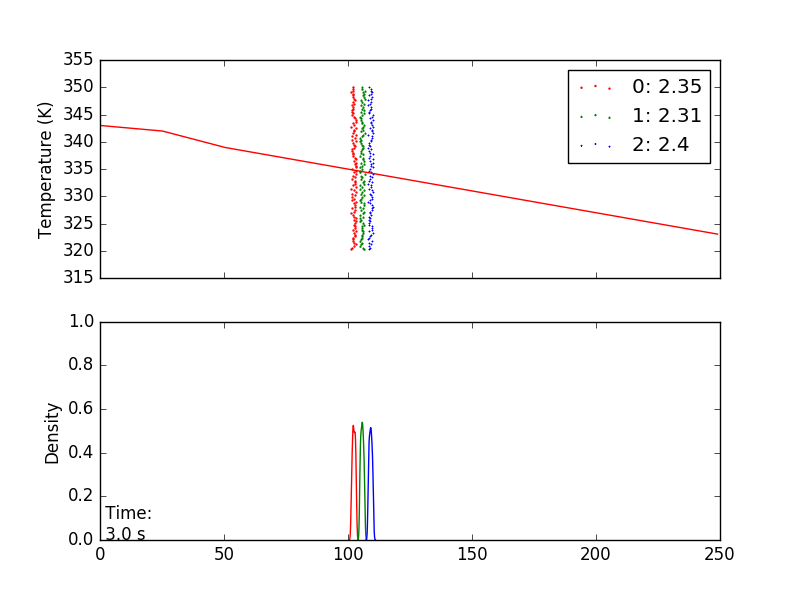
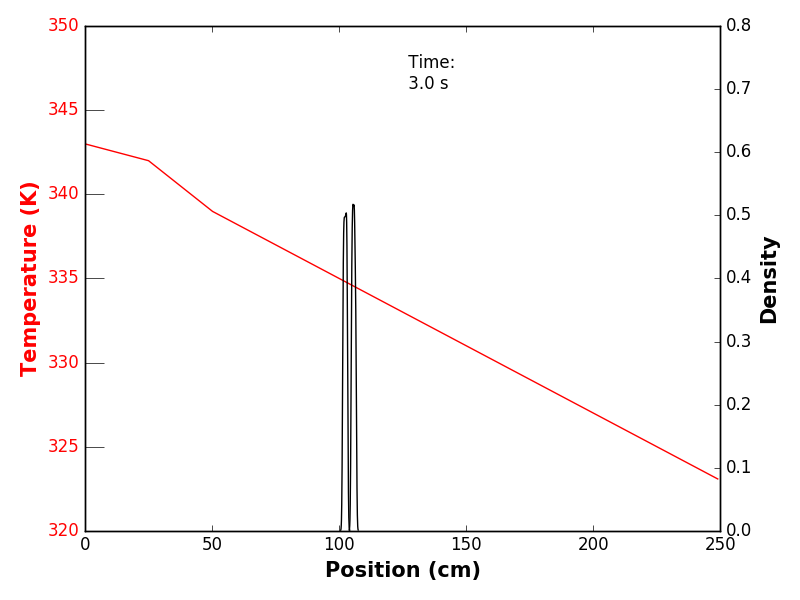
presentation ready?

diff --git a/Code/python/ExpSerpentine/newCode/ExpSerpentine_RealGradient5.py b/Code/python/ExpSerpentine/newCode/ExpSerpentine_RealGradient5.py
@@ -1,0 +1,156 @@
+import numpy as np
+import math
+import matplotlib.pyplot as plt
+import seaborn as sns
+import Parameters_ExpSerpentine as p
+import interpolateTemperature2 as interpT
+
+########################
+###   NEW EQUATION:  This is a step by step program to generate a random walk model
+###     for a varietly of moving thermal gradient profiles.
+###		This code was UPDATED in Riva with Samuel in May 2016
+####################
+TemperatureGradients = np.loadtxt(p.gradientFileName,delimiter = ',')
+colPosition = np.loadtxt(p.positionFileName,delimiter = ',') * p.posUnits
+timeData = np.loadtxt(p.timeFileName,delimiter = ',')
+GData = interpT.GradientData(colPosition,timeData,TemperatureGradients)
+colLength = colPosition[len(colPosition)-1] - colPosition[0]  # Column length [cm]
+
+#C = -7.22173 - 0.47406*p.X                # Formula for calculating C where X is the number of carbons.  Includes phase ratio
+C = -9.7309 - 0.1552*p.X             #Formula using hard coded C values
+#h = (2284.0 + 819*p.X) * 4.18442979       #  Calculation of enthalpy (Joules)
+h = (7659.66012301 + 76.4301505179*p.X) * 4.18442979       #  Calculation of enthalpy (Joules) using hard code values to calc
+
+p_i = p.p_i*6894.757          # This converts pressure from psi units to Pascals
+p_o = p.p_o*6894.757          # This converts pressure from psi units to Pascals
+p_i = p_i + p_o             #This is the true inlet pressure.
+
+Temp2PowVec = np.arange(0,1000+1/p.powerAce,1/p.powerAce)**1.646        #address the temperature /100, get the temp raised to the power
+#################
+#	The vector 'Temp2Pow' is sequence of temperatures raised to the 1.646 power
+#		to adjust for the viscosity of helium.
+#################
+startTime = int(timeData[0] / p.delta_t)
+runTime = int( timeData[len(timeData)-1] / p.delta_t)  #Number of potential steps to get compounds out of column.
+pauseCount = int(1/p.delta_t) #number of frames to skip in plotting results.  The 'big.matrix'
+                            # takes a snapshot at every 'pause.count' time for illustrating the
+                            # progress of the molecules.
+##### Start Standard Execution
+x = np.zeros((p.j,p.nMol))
+                                    # This matrix keeps track of x-axis location of each
+                                    # molecule of each analyte. Initially each is at point
+                                    # '0' as indicated here.  The y-axis location is simply the
+                                    # scaled value of the molecule's index number in the matrix x.
+detector = np.zeros((p.j,p.nMol))
+moleculeExitTime = np.zeros((p.j,p.nMol))
+
+for i in range(0,p.j):
+  x[i,] = np.random.choice(p.nMol, p.nMol, replace=False)*1.0*p.injectionWidth/p.nMol
+# The above loop returns an order from 1 to n.mol for each molecule.  Since it is divided
+# by n.mol, in essence we get each molecule uniquely with a value between 0 and 1.
+# Multiplying by injection.width gives a plug that has the n.mol molecules uniformly distributed
+# from 0 cm to injection.width cm at the beginning of the column.
+#   Remember, x[i,] is the vector of locations in x-axis of i-th analyte.  This location is used
+#	at each step for each molecule to determine temperature and velocity.
+#	This is also used to plot location of the molecules.  The y-axis values for plot are determined
+#	from the matrix column index.  (Rows indicate analyte and column indicate individual molecules.)
+currentTime = timeData[0]
+plot_res = np.zeros((p.j-1,0))
+#added_dc#############################################################
+vel_x = np.zeros((p.j,0))
+pos_x = np.zeros((p.j,0))
+std = np.zeros((p.j,0))
+time = np.array([])
+Tmax = np.amax(TemperatureGradients)
+Tmin = np.amin(TemperatureGradients)
+Tdelta = Tmax-Tmin
+
+for n in range(startTime,runTime+1):
+#for n in range(0,2):
+    currentTime = round(n*p.delta_t,3)
+    TempPlus = GData.getTemperatures(n*p.delta_t,p.tempGranularity)
+    temp = abs(x*p.tempGranularity+1)
+    temp[temp >= len(TempPlus)] = len(TempPlus) - 1
+    T_all = TempPlus[temp.astype(int)].flatten()
+    C_all = C
+    tmp_C_all = np.repeat([C_all],len(T_all)/len(C_all),axis=0).flatten('F')
+    tmp_h = np.repeat([h],len(T_all)/len(h),axis = 0).flatten('F')
+    k_all = np.exp(tmp_h/(p.R*T_all)+tmp_C_all)
+       # Here I adjust the diffusion calculation according to the position of each molecule and the temperature
+       #   at that location, taking adjusting the velocity resulting from the different pressure and viscosity values.  (HDT)
+       # 	To do this there are several steps.
+       #	First step is to determine a numerical value for the integral of temperature times viscosity.
+    TSumPow = np.cumsum(Temp2PowVec[(TempPlus*p.powerAce).astype(int)-1]) / p.tempGranularity
+       # integral of Temp^1.646
+         # Note baseline viscosity cancels out.
+         # T.sum.pow[length(T.sum.pow)]
+         # is sum or integral from 0 to end.
+    totInt = TSumPow[int(colLength*p.tempGranularity)-1]  #This is the integral from 0 to L of T^1.646.
+    HeFactor = 0.000018662/(273.15**.646)  #Mult factor viscosity of He solvent.  This is delta.not in notes.
+    CStar = (p_i**2-p_o**2)/(2*HeFactor*TSumPow[int(colLength*p.tempGranularity)-1])
+         ## C.star is =to (pi^2-po^2)/(2*integral over L of T^1.646)
+         #	I am doing the integral as simply the sum of the histogram pieces.  I could
+         #	improve this step by using Simpson's rule or the Newton binomial trick if the
+         #	Temperature can be modeled as a simple function of two variates. (HDT)
+    velocity_x = ( (p_i**2-p_o**2)*TempPlus[temp.astype(int)] * (p.diameter/2)**2 / ((16*HeFactor*totInt )*np.sqrt(abs(p_i**2-(p_i**2-p_o**2)*TSumPow[temp.astype(int)]/totInt ))) )
+    p_x = np.sqrt(abs((p_i**2-(p_i**2-p_o**2)*TSumPow[temp.astype(int)]/totInt)) ).flatten()
+       #This is the pressure at x
+    TempPrssRat = (T_all**1.75)/p_x
+    Dt = 2*(( TempPrssRat*p.gamma1 + ((1+6*k_all+11*k_all**2)/((1+k_all)**2))*velocity_x.flatten()**2*p.gamma2/(TempPrssRat) + p.gamma3*velocity_x.flatten()**2*k_all/(1+k_all) )/(1+k_all))
+    sigmaDelta = np.sqrt(abs(Dt*p.delta_t))
+    x = np.reshape((x.flatten() + ( velocity_x.flatten()*p.delta_t/(1 + k_all) + np.random.normal(0,sigmaDelta,p.j*p.nMol))),np.shape(x))
+    prevDetector = np.copy(detector)
+    detector[np.where(x > colLength)] = 1
+    moleculeExitTime[np.where(detector != prevDetector)] = currentTime
+    if n % pauseCount == 0:
+        if np.min(x) > colLength:
+            break
+        print(currentTime)
+        time = np.append(time,currentTime)
+        vel_x = np.append(vel_x,np.array([np.mean(velocity_x,axis = 1)]).T,axis=1)
+        currentMeanPos = np.array([np.mean(x,axis = 1)]).T
+        pos_x = np.append(pos_x,currentMeanPos,axis=1)
+        std = np.append(std,np.array([np.std(x,axis=1,ddof=1)]).T,axis=1)
+        f, ax1 = plt.subplots()
+
+        plt.ylim(Tmin,Tmax)
+        plt.xlabel('Position (cm)',weight='heavy',size=15)
+        ax1.yaxis.set_label_position("left")
+        ax1.set_ylabel("Temperature (K)",color='r',weight='heavy',size=15)
+        ax1.tick_params(axis='y', labelcolor='r',size=14)
+        tmp = np.array([np.std(x,axis=1,ddof=1)]).T
+        tmp = (tmp[0:len(tmp)-1] + tmp[1:len(tmp)])/2
+        res = (currentMeanPos[0:len(currentMeanPos)-1]-currentMeanPos[1:len(currentMeanPos)]) / (4.0*tmp)
+        if(len(res) < 2):
+            res = res.T
+        plot_res = np.append(plot_res, res,axis=1)
+        xx = np.linspace(0,colLength-1,(colLength-1)/.1 + 1)
+        yy = (TempPlus[(xx*p.tempGranularity).astype(int)])
+        ax1.plot(xx,yy,color = 'red')
+
+        ax2 = ax1.twinx()
+        ax2.set_ylim(0,0.8)
+
+        ax2.set_ylabel('Density',weight='heavy',size=15)
+        for i in range(0,p.j):
+           sns.kdeplot(x[i,],color='k',ax=ax2) #density plot
+
+        plt.xlim(0,colLength)
+
+        intSec = int(currentTime)
+        intDecimal = int((currentTime - intSec)*100)
+        plt.text(125,0.7,' Time:\n ' + str(currentTime)  + ' s')
+
+        f.tight_layout()
+
+        f.savefig('Time_' + str(intSec) + "_" + str(intDecimal))
+        plt.close(f)
+
+    #### End Standard Execution
+np.savetxt("molecExitTime.csv", moleculeExitTime, delimiter=",")
+np.savetxt("vel_x.csv", vel_x, delimiter=",")
+np.savetxt("pos_x.csv", pos_x, delimiter=",")
+np.savetxt("std.csv", std, delimiter=",")
+np.savetxt("resolution.csv", plot_res, delimiter=",")
+np.savetxt("timeOutput.csv", time, delimiter=",")
+##### End picture drawing

diff --git a/Code/python/ExpSerpentine/newCode/plotResults2.py b/Code/python/ExpSerpentine/newCode/plotResults2.py
@@ -1,0 +1,69 @@
+import numpy as np
+import matplotlib.pyplot as plt
+import seaborn as sns
+
+res = abs(np.loadtxt("resolution.csv",delimiter = ','))
+pos = np.loadtxt("pos_x.csv",delimiter = ',')
+vel = np.loadtxt("vel_x.csv",delimiter = ',')
+std = np.loadtxt("std.csv",delimiter = ',')
+molecExit = np.loadtxt("molecExitTime.csv",delimiter = ',')
+t = np.loadtxt("timeOutput.csv",delimiter = ',')
+
+plt.figure(1)
+for i in range(len(pos)):
+    plt.plot(t,pos[i],label = "Compound " + str(i))
+plt.legend(loc = 'best')
+plt.xlabel("Time (sec)")
+plt.ylabel("Molecule Location")
+plt.title("Average Position of Compounds")
+plt.show()
+
+plt.figure(2)
+for i in range(len(vel)):
+    plt.plot(t,vel[i],label = "Compound " + str(i))
+plt.legend(loc = 'best')
+plt.xlabel("Time (sec)")
+plt.ylabel("Molecule Velocity")
+plt.title("Average Velocity of Compounds")
+plt.show()
+
+plt.figure(3)
+for i in range(len(std)):
+    plt.plot(t,std[i],label = "Compound " + str(i))
+plt.legend(loc = 'best')
+plt.xlabel("Time (sec)")
+plt.ylabel("Molecule Standard Deviation")
+plt.title("Standard Deviation of Each Compound")
+plt.show()
+
+plt.figure(4)
+if len(np.shape(res))==1:
+    plt.plot(t,res,label = "Compound " + str(i) + " to " + str(i+1))
+else:
+    for i in range(len(res)):
+        plt.plot(t,res[i],label = "Compound " + str(i) + " to " + str(i+1))
+plt.legend(loc = 'best')
+plt.xlabel("Time (sec)")
+plt.ylabel("Resolution")
+plt.title("Resolution")
+plt.show()
+
+plt.figure(5)
+for i in range(len(molecExit)):
+    y = np.linspace(0,1,len(molecExit[0]))
+    print("len y: ", len(y))
+    print("molecExit[i]: ", len(molecExit[i]))
+    np.random.shuffle(y)
+    plt.scatter(molecExit[i],y,label = "Compound " + str(i))
+plt.legend(loc = 'best')
+plt.xlabel("Time (sec)")
+plt.ylabel("Exit Time")
+plt.title("Compound Exit Time")
+plt.show()
+
+plt.figure(6)
+for i in range(len(molecExit)):
+    sns.kdeplot(molecExit[i],color='k')
+plt.xlim(0,max(molecExit.flatten())+5)
+plt.yticks([])
+plt.show()

diff --git a/Code/python/ExpSerpentine/newCode/ExpSerpentine_RealGradient4.py b/Code/python/ExpSerpentine/newCode/ExpSerpentine_RealGradient4.py
@@ -30,7 +30,8 @@ Temp2PowVec = np.arange(0,1000+1/p.powerAce,1/p.powerAce)**1.646        #address
 #	The vector 'Temp2Pow' is sequence of temperatures raised to the 1.646 power
 #		to adjust for the viscosity of helium.
 #################
-runTime = int( (timeData[len(timeData)-1] - timeData[0]) / p.delta_t)  #Number of potential steps to get compounds out of column.
+startTime = int(timeData[0] / p.delta_t)
+runTime = int( timeData[len(timeData)-1] / p.delta_t)  #Number of potential steps to get compounds out of column.
 pauseCount = int(1/p.delta_t) #number of frames to skip in plotting results.  The 'big.matrix'
                             # takes a snapshot at every 'pause.count' time for illustrating the
                             # progress of the molecules.
@@ -64,7 +65,7 @@ Tmax = np.amax(TemperatureGradients)
 Tmin = np.amin(TemperatureGradients)
 Tdelta = Tmax-Tmin
 
-for n in range(0,runTime+1):
+for n in range(startTime,runTime+1):
 #for n in range(0,2):
     currentTime = round(n*p.delta_t,3)
     TempPlus = GData.getTemperatures(n*p.delta_t,p.tempGranularity)

diff --git a/Code/python/ExpSerpentine/newCode/Parameters_ExpSerpentine.py b/Code/python/ExpSerpentine/newCode/Parameters_ExpSerpentine.py
@@ -8,8 +8,8 @@ posUnits = 1 # assume cm, (if meters then posUnits= 100, if mm then posUnits = .
 
 colors  = ['red','green','blue','grey30']
 markers = np.array(["o","^","x","D","v","s"])
-j = 3                     # Number of compounds
-X = np.array([9.0,10.0,11.0])    # Alkane length
+j = 2                     # Number of compounds
+X = np.array([9.0,10.0])    # Alkane length
 nMol = 100                  # Number of molecules per compound used in simulation
 gamma1 = 5.113e-3           # Molecular diffusion coefficient when using both temp and pressure.
 gamma3 = 7.676e-8           # Resistence to flow for adsorption/deporption (no pressure variable)

diff --git a/Code/python/ExpSerpentine/newCode/plotResults.py b/Code/python/ExpSerpentine/newCode/plotResults.py
@@ -37,7 +37,7 @@ plt.show()
 
 plt.figure(4)
 for i in range(len(res)):
-    plt.plot(t,std[i],label = "Compound " + str(i) + " to " + str(i+1))
+    plt.plot(t,res[i],label = "Compound " + str(i) + " to " + str(i+1))
 plt.legend(loc = 'best')
 plt.xlabel("Time (sec)")
 plt.ylabel("Resolution")
